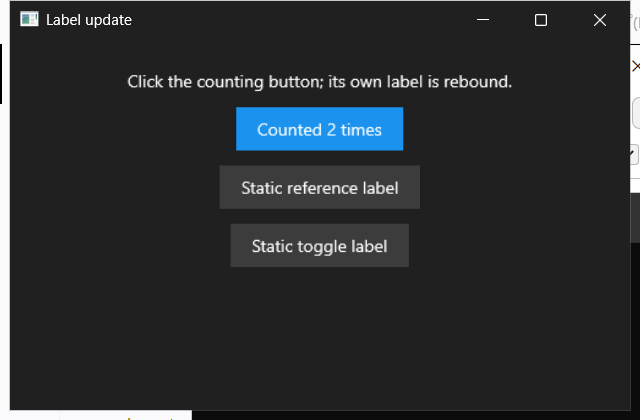
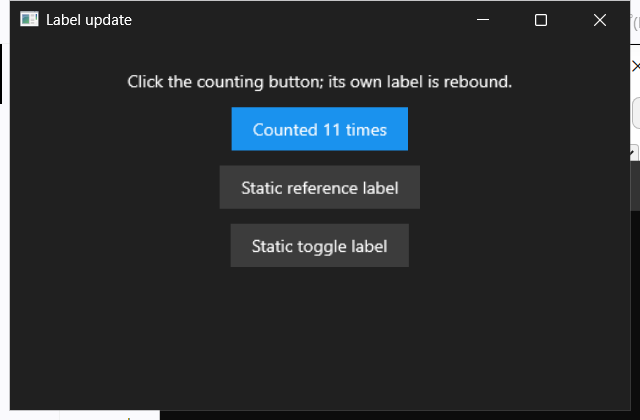
docs(m4-phase-1): disposition the second review round and close the width gap
Seven findings, all real. The first round's lesson repeated in a sharper
form: the corrections were right where they were applied and incomplete
in where they were applied.

The enumeration counted ABI wrappers, not mechanisms. root_widget, root
and visual are all public and the tree-mutation methods are pub fn on
WidgetNode, so the ABI is not the boundary; rows 6 and 6b are re-scoped
to the tree-mutation API and to direct Composition hosting, of which
window_add_widget is the convenience form.

F-21's old mechanism survived in three summarising passages after the
finding itself was corrected — which is the same failure class as F-18,
committed by the fix to F-18. All three corrected.

The width half of the R-4 gap is now closed rather than recorded: the
evidence UI counts from 9 so the click crosses 9 to 10 and the label
gains a digit, and mutation N4 turns the counting Button blank. The
height half cannot be closed by this set, because line height is a font
metric constant with no style setter, so it is recorded with its
re-trigger instead of with a mutation that cannot fire.

The new evidence also exposed a pre-existing defect, F-23: flush_layout
calls the plain run_layout while set_root and WM_SIZE call
run_layout_as_window_root, so a Fill child under a Shrink root collapses
on a property write but not on a resize. Present before this change too,
so the pairs stay zero; recommended for T5, which already edits that
call site.

diff --git a/wasamo-runtime/src/widget.rs b/wasamo-runtime/src/widget.rs
@@ -828,10 +828,16 @@ impl WidgetNode {
         // are written by `sync_visuals`, alongside every other Composition
         // geometry write in the runtime.
         //
-        // The consequence is that a Button-family widget renders its label only
-        // once a layout pass has run over it. Every path that puts a widget on
-        // screen as *content* does run one; `lib.rs::window_add_widget` does
-        // not, by design, and is documented accordingly.
+        // The consequence is that a Button-family widget shows its label only
+        // once a layout pass has run over it, and **not every path that puts a
+        // widget on screen runs one**. `window::set_root` and the `WM_SIZE` arm
+        // do; the tree-mutation API (`append_child` / `insert_child` /
+        // `replace_child`, whether called directly or through their ABI
+        // wrappers) does not, and neither does `lib.rs::window_add_widget`.
+        // Those paths rely on a later `WM_SIZE` or size-affecting property
+        // write, except `window_add_widget`, which has no later pass at all.
+        // A new mutation entry that omits `emit::mark_layout_dirty_for` will
+        // reproduce the missing label.
         use windows::core::Interface;
         let label_vis: Visual = label_visual.cast()?;
         let bg_container: ContainerVisual = bg_visual.cast()?;

diff --git a/wasamo-runtime/src/lib.rs b/wasamo-runtime/src/lib.rs
@@ -108,11 +108,12 @@ pub fn get_text_renderer() -> &'static TextRenderer {
 /// Since M4-Phase 1 that also means a **Button-family widget shows no label
 /// through this path**: the label Visual's offset and size are written by
 /// `sync_visuals`, so a widget that never reaches a layout pass keeps the
-/// Composition default of `Size = (0, 0)` and the label is not rasterized to
-/// screen. Before that change the label happened to carry constructor-time
-/// geometry while its background did not, so this path rendered a
-/// half-positioned widget. Use [`window_set_root`] for anything that should
-/// lay itself out.
+/// Composition default of `Size = (0, 0)`. The label surface and its brush
+/// *are* created at construction — the label is rasterized, just never
+/// composited, so re-creating the surface does not help. Before that change
+/// the label happened to carry constructor-time geometry while its background
+/// did not, so this path rendered a half-positioned widget. Use
+/// [`window_set_root`] for anything that should lay itself out.
 pub fn window_add_widget(window: &WindowState, widget: &WidgetNode) -> windows::core::Result<()> {
     use windows::core::Interface;
     use windows::UI::Composition::Visual;

diff --git a/process/milestone-4/phase-1/implementation/log.md b/process/milestone-4/phase-1/implementation/log.md
@@ -890,8 +890,8 @@ assertions, not omissions.
 | 3 | `emit::flush_layout` → `run_layout` (the drain's layout phase) | label untouched | **preserved and load-bearing**: this is the pass that now carries the relocated label-update write |
 | 4 | `set_property(PROP_BUTTON_LABEL)` on an **attached** widget | brush, geometry and `SizeConstraint` all written inline | **changed.** Geometry moves to the drain's layout phase, which `wasamo_set_property` runs synchronously at the tail of the same ABI call (`drain_if_outermost`) because `size_affecting` already lists this property. No frame is presented between the brush write and the geometry write — Composition commits at the dispatcher tick, not per property set. Verified by frame: `labelupdate-clicked` and `-clicked-twice` are pixel-identical before and after |
 | 5 | `set_property(PROP_BUTTON_LABEL)` on an **unattached** widget | geometry written eagerly | **changed.** `mark_layout_dirty_for` is a no-op when the widget belongs to no window, so no layout pass runs and the label Visual keeps its previous geometry until the subtree is attached — at which point `set_root`'s first pass writes it. Self-healing, and the widget is by definition not on screen in the interval |
-| 6 | **The ABI structural mutations** — `wasamo_widget_insert_child`, `wasamo_widget_append_child`, `wasamo_widget_replace_child` (**all three**; the row originally named only `insert_child` — Codex review finding R-2) | inserted/appended/replacing button's label was placed; the button itself was not | **pre-existing class, not introduced here.** None of the three marks layout dirty and none drains, so the new node's *own* Visual already had no offset or size until the next layout pass. T3 makes the label match the button instead of floating at (16, 8) over a zero-sized background. The class is closed only by the next `WM_SIZE` or size-affecting property write |
-| 6b | **`lib.rs::window_add_widget`** — the Rust-native direct-hosting entry (**Codex review finding R-1; this row was missing entirely**) | the label carried constructor geometry `(16, 8)` / `(lw, lh)` while the background carried none, so a caller who sized the background by hand got a rendered label | **changed, and this is a real behaviour regression on a public API.** The function attaches a Visual to `window.root.Children()` and deliberately runs **no layout and no sync** (its own doc says so), so a Button-family widget added through it now keeps `Size = (0, 0)` on its label **permanently** — not until the next pass, because there is no pass. The pre-change behaviour was itself half-formed (label placed, background not), but "half-formed" and "no label" are not the same thing. Not fixed by reintroducing a construction-time write, which would destroy the one-pass invariant this task exists to create. Disposition below |
+| 6 | **The tree-mutation API** — `WidgetNode::append_child` / `insert_child` / `replace_child`, all `pub`, plus their ABI wrappers `wasamo_widget_append_child` / `_insert_child` / `_replace_child` (**re-scoped twice: the row first named only `insert_child`, then only the ABI wrappers — review findings R-2 and, on re-review, R-1's first half**) | the new button's label was placed; the button itself was not | **pre-existing class, not introduced here.** None of these marks layout dirty and none drains, so the new node's *own* Visual already had no offset or size until the next layout pass. T3 makes the label match the button instead of floating at (16, 8) over a zero-sized background. The class is closed only by the next `WM_SIZE` or size-affecting property write. **The boundary is the `WidgetNode` method, not the ABI wrapper** — `WindowState::root_widget` is `pub`, so `window.root_widget.as_mut().unwrap().append_child(button)` reaches the same code with no ABI hop |
+| 6b | **Direct Composition hosting** — `lib.rs::window_add_widget`, and equivalently any caller doing `window.root.Children()?.InsertAtTop(&widget.visual.cast()?)` by hand, since `WindowState::root` and `WidgetNode::visual` are both `pub` (**review finding R-1; this row was missing entirely, and its scope was widened on re-review**) | the label carried constructor geometry `(16, 8)` / `(lw, lh)` while the background carried none, so a caller who sized the background by hand got a rendered label | **changed, and this is a real behaviour regression on a public API.** The widget never enters `root_widget`, so it is not merely unlaid-out — **no later pass exists**, and the label keeps `Size = (0, 0)` permanently. The pre-change behaviour was itself half-formed (label placed, background not), but "half-formed" and "no label" are not the same thing. Not fixed by reintroducing a construction-time write, which would destroy the one-pass invariant this task exists to create. Disposition below |
 | 7 | `ir_loader` conditional / `for`-range mutations | as above | **preserved.** Both sites call `mark_layout_dirty_for` after the mutation, so the drain's layout phase places the new subtree. Exercised by the `gallery-lightbox` frame, whose three buttons are constructed *after* the tree was attached |
 | 8 | Visual parenting / Z-order (`bg_container.Children().InsertAtTop`) | at construction | **unchanged** — only the two geometry writes moved |
 | 9 | The node's `SizeConstraint::Fixed` pair | derived from `(lw, lh)` in both writers | **unchanged**, and still per axis (F-10): `Fixed(lw + BUTTON_PAD_H * 2.0)` and `Fixed(lh + BUTTON_PAD_V * 2.0)` in each |
@@ -979,23 +979,40 @@ at the frame edge cannot contribute):
 | `labelupdate-clicked` | the relocated label-update write, once | **0** of 224,480 |
 | `labelupdate-clicked-twice` | the same write a second time | **0** of 224,480 |
 
-**Correction (Codex review finding R-4):** these three frames were
-described as covering "three different label widths". They do not.
-`Counted 0 times` / `1 times` / `2 times` differ in glyph but **not in
-measured width** — the digits are the same advance — so the Button is the
-same width in all three. The consequence is concrete: an implementation
-that wrote `btn.label_size = (btn.label_size.0, lh)` — keeping the stale
-width — would keep two writers, keep the statement-group shape, and pass
-every frame in this set, and would only smear when a label crosses from
-one digit to two. **There is no positive control for that mutation.** The
-landed source is `(lw, lh)` and is correct; what is missing is evidence,
-and it is recorded as missing rather than papered over.
+**Correction, and then closure (review finding R-4).** The set originally
+started its counter at 0, and these three frames were described as
+covering "three different label widths". They did not:
+`Counted 0 / 1 / 2 times` differ in glyph but **not in measured width** —
+the digits share an advance — so the Button was the same width in all
+three, and an implementation writing
+`btn.label_size = (btn.label_size.0, lh)` would have kept two writers,
+kept the statement-group shape, and passed every frame.
+
+**The evidence UI now starts at 9**, so the click crosses 9 → 10, the
+label gains a digit, and the Button's measured width moves. Mutation
+**N4** confirms the set reacts: with the stale-width write in place the
+counting Button renders **completely blank** (`n4-stale-width-labelupdate.png`),
+and both `labelupdate-initial` and `-clicked` go red — the initial frame
+too, because the bound label is written through `update_button_label`
+once at registration, when the constructed label was still empty. The
+hole R-4 identified is closed rather than only recorded.
+
+**The height component is not closed, and cannot be by this set.**
+`measure` returns `DWRITE_TEXT_METRICS::height` for an unconstrained
+single-line layout, so `lh` is a font-metric constant for a given
+`TypographyStyle` — and `label_style` has no setter. A mutation writing
+`(lw, btn.label_size.1)` therefore produces an identical frame here.
+It is **not** unreachable in principle: a label whose script changes can
+draw a fallback font with different line metrics, and multi-line labels
+or a future style setter would make it ordinary. Recorded as a stated
+gap with that re-trigger rather than closed with a mutation that cannot
+be made to fire.
 
 **What the pair does and does not discriminate**, stated rather than
 implied. It **does** show that the relocated write lands, for both widget
 kinds, on all three paths that reach a Button (first layout, drain
-re-layout, post-attach construction), and at three different label widths
-on the update path — N1 and N2 are the proof that a frame in this set goes
+re-layout, post-attach construction), and across a label-width change on
+the update path — N1 and N2 are the proof that a frame in this set goes
 red when it should. It **does not** show that the *old* writes are gone:
 an implementation that added the sync arm and left the construction
 writes in place would produce exactly these frames. That half is closed
@@ -1100,7 +1117,7 @@ correct:
 | §T6 | **corrections — F-20** (the walk can read `label_size` and must not become a second measurer) and **F-21** (workspace build before the rendering gate) |
 | §T7 | **correction — F-18**: the clip-inset row inherits the Box-vs-ZStack error that F-2 corrected only on the DD-002 side |
 | §T8 | no additional correction. T3 adds no test and no assertion surface; `label_visual` stays private, so T8's Visual-ratio assertions remain node-level as written |
-| §T9 | **correction — F-21**: the three-host rebuild is the artifact for DD-001's boundary claim, and a host-package build would run it against a pre-T9 DLL |
+| §T9 | **correction — F-21**: the three-host rebuild is the artifact for DD-001's boundary claim, and a host-package build would run it against a DLL relinked around pre-T9 object code |
 | §T10 | **correction — F-21**, and a confirmation: T3's capture script and its click-point derivation are reusable, and the aware/unaware `MoveWindow` / `GetWindowRect` asymmetry T3 worked through is the same thing R-7 already assigns to T10 |
 | §T11 | no additional correction — owner-executed, unaffected |
 | §T12 | **correction — F-21's [AGENTS.md](../../../../AGENTS.md) half**, folded into the existing F-5 correction item rather than added as a second bullet |
@@ -1159,9 +1176,13 @@ Six findings, five of them in tasks T3 never touched.
   extent and does not re-measure; if a future change makes `measure`
   scale-dependent, that is the already-recorded re-trigger and both this
   and T7's step ordering are re-derived together.
-- **F-21 — a host-package build does not rebuild the runtime.** Recorded
-  in full above. *Disposition:* [plan.md](./plan.md) §T6, §T9, §T10, §T12;
-  preamble R-1b; [handoff.md](./handoff.md).
+- **F-21 — a host-package build relinks the DLL around stale object
+  code.** Recorded in full above, with the mechanism corrected at the
+  independent review: cargo *does* recompile the runtime and *does*
+  relink `wasamo.dll`; the stale input is the **uplifted** rlib that
+  `wasamo-dll/build.rs` whole-archives, which makes this F-5's root cause
+  with the opposite symptom. *Disposition:* [plan.md](./plan.md) §T6,
+  §T9, §T10, §T12; preamble R-1b; [handoff.md](./handoff.md).
 - **F-22 — the phase-wide "trap #3 non-applicable" is falsified.**
   [preamble.md](./preamble.md) §Implementation gates records trap #3 as
   non-applicable for the phase, "no parallel vectors or derived indices
@@ -1255,7 +1276,7 @@ the reviewer's word.
 
 | # | Finding | Verified | Disposition |
 |---|---|---|---|
-| R-1 | **major** — `lib.rs::window_add_widget` runs no layout and no sync, so removing the constructor geometry leaves a Button-family label permanently at `Size = (0, 0)` on that path | **Confirmed.** The function attaches a Visual to `window.root.Children()` and returns; its own doc names "no layout, no hit-test" as the point. The enumeration missed it because the enumeration walked *layout* paths, and this is the one attach path that deliberately is not one | Enumeration row **6b** added; the misleading `button_family` comment corrected (it claimed construction happens in the IR loader, which is not the only constructor); `window_add_widget`'s doc states the consequence. **Not** fixed by reintroducing a construction-time write — that would destroy the one-pass invariant the task exists to create. The API's future is an owner decision, below |
+| R-1 | **major** — `lib.rs::window_add_widget` runs no layout and no sync, so removing the constructor geometry leaves a Button-family label permanently at `Size = (0, 0)` on that path | **Confirmed.** The function attaches a Visual to `window.root.Children()` and returns; its own doc names "no layout, no hit-test" as the point. The enumeration missed it because the enumeration walked *layout* paths, and this is the one attach path that deliberately is not one | Enumeration row **6b** added; the misleading `button_family` comment corrected (it claimed construction happens in the IR loader, which is not the only constructor); `window_add_widget`'s doc states the consequence. **Not** fixed by reintroducing a construction-time write — that would destroy the one-pass invariant the task exists to create. **Widened on re-review** (see the second-round table below) and the API's disposition taken as T3's own |
 | R-2 | **minor** — enumeration row 6 named only `wasamo_widget_insert_child`; `append_child` and `replace_child` are the same class | **Confirmed** at `abi.rs:388` and `abi.rs:491`: neither marks layout dirty, neither drains | Row 6 rewritten to name all three |
 | R-3 | **minor** — the "preserved" verdicts hold only when layout succeeds; `run_layout*` propagates the error with `?` before `sync_visuals`, and both callers discard the `Result` | **Confirmed** by reading `run_layout` / `run_layout_as_window_root` and the two `let _ = …` call sites | Enumeration row **14** added, stating the condition the other rows assumed |
 | R-4 | **minor** — the three label-update frames were described as "three different label widths"; the widths are identical | **Confirmed.** `Counted 0/1/2 times` differ in glyph, not in advance width. A mutation keeping the stale width would pass the whole set | The claim is corrected in place, and the **missing** positive control is recorded as missing rather than papered over |
@@ -1306,4 +1327,47 @@ itself. What an independent review of this shape still could not supply
 is a mutation nobody thought of — R-4 is the case in point: the reviewer
 found the missing control by reading the evidence *description*, not by
 running a mutation the assistant had not designed.
+
+### Second review round (Codex, 2026-07-28) — delta review of the disposition
+
+Seven findings: one major, four minor, two nits. **Every one is real**,
+re-verified against the source before acceptance. The first round's
+lesson repeated in a sharper form: the corrections were right where they
+were applied and **incomplete in where they were applied**.
+
+| # | Finding | Verified | Disposition |
+|---|---|---|---|
+| S-1 | **major** — rows 6 / 6b counted the *ABI wrappers* and `window_add_widget`, missing direct Rust-native mutation and direct Composition hosting | **Confirmed.** `WindowState::root_widget`, `WindowState::root` and `WidgetNode::visual` are all `pub`, and `append_child` / `insert_child` / `replace_child` are `pub fn` on `WidgetNode` — so the ABI is not the boundary | Rows 6 and 6b re-scoped **by mechanism instead of by wrapper**: row 6 is the tree-mutation API with the ABI functions as one caller; row 6b is direct Composition hosting, of which `window_add_widget` is the convenience form. This is the fourth path class the re-framed enumeration was asked for |
+| S-2 | **minor** — the `button_family` comment ("every path that puts a widget on screen as content runs a layout pass") contradicts row 6 | **Confirmed** — the comment was written before rows 6 / 6b / 14 existed | Comment rewritten to name which paths do and do not, and to name the omission (`mark_layout_dirty_for`) that reproduces the defect |
+| S-3 | **minor** — F-21's old mechanism survives in the retrospective's learnings and share-forward sections and in this log's re-audit bullet | **Confirmed** at three sites | All three corrected. **This is F-18's own failure class, committed by the correction to F-18**: the fix was applied to the documents that *carried the finding* and not to the documents that *summarised* it |
+| S-4 | **minor** — "three different label widths" survives in the pair-analysis paragraph, directly after the paragraph withdrawing it | **Confirmed** | Corrected |
+| S-5 | **minor** — the R-4 gap statement covers width and understates the height component | **Confirmed** — `(lw, stale_height)` also passes the set | Gap restated for both components. The **width** half is now **closed** by evidence (below); the **height** half is recorded with the reason it cannot be closed by this set and its re-trigger |
+| S-6 | **nit** — "not rasterized to screen" misdescribes the mechanism; the label *is* rasterized and brushed, and is not composited because the Visual is zero-sized | **Confirmed** — `draw_text` and `CreateSurfaceBrushWithSurface` both run at construction | Doc corrected. The misdescription would have sent a reader to re-create the surface, which changes nothing |
+| S-7 | **nit** — the R-1 row still called the API's future an owner decision after the text below settled it | **Confirmed** | Row corrected |
+
+**The width gap is closed, not just recorded (S-5).** The evidence `.ui`
+now starts its counter at **9**, so the click crosses 9 → 10 and the
+label gains a digit; mutation **N4** (`label_size = (label_size.0, lh)`)
+turns the counting Button completely blank and reddens two frames. Both
+sets were re-captured on their respective builds and all six pairs are
+again zero.
+
+**A pre-existing defect the new evidence exposed, recorded as F-23.**
+In every frame after a click, the Grid-stretched Button **disappears** —
+in the pre-change build too, so it is not T3's and the pairs stay zero.
+The cause is a real inconsistency between the phase's two re-layout
+paths: `window::set_root` and the `WM_SIZE` arm call
+`run_layout_as_window_root`, which forces the root `LayoutNode` to
+`Fill` / `Fill`, while [`emit::flush_layout`](../../../../wasamo-runtime/src/emit.rs)
+— the reactive drain's layout phase — calls the plain `run_layout`,
+which does not. A root `VStack` (`Shrink`) holding a `Grid`
+(`Fill` / `Fill`) therefore lays out correctly on resize and **collapses
+the Grid to zero height on any property write**. That is exactly the
+M3-Phase 4 T6 failure `run_layout_as_window_root`'s doc comment describes,
+still live on the drain path. *Not fixed here* — T3 must stay
+behaviour-identical, and this is a behaviour change with its own
+evidence needs. *Disposition:* recorded in [handoff.md](./handoff.md) and
+raised with the owner, with the recommendation that it land in **T5**,
+which already edits that call site for the inbound DIP conversion (audit
+row 2b), as its own commit with its own before/after frames.
 

diff --git a/process/milestone-4/phase-1/implementation/handoff.md b/process/milestone-4/phase-1/implementation/handoff.md
@@ -41,6 +41,7 @@ criterion rather than a date.
 | **The per-node scale cache has exactly one writer** — the attach / scale-change walk; `WindowState` holds the authoritative value (T1 decision, [log.md](./log.md) §T1) | In force from T5 onward | Any path that attaches, re-parents, or re-materialises a subtree **without** running the walk leaves stale scales behind: staged iteration subtrees, M4-Phase 2 event-model tree edits, M4-Phase 8 moving a tree between windows. Such a path must call the walk |
 | **`cargo test --workspace` needs `cargo build -p wasamo-runtime` first from a cold target directory** — `wasamo-dll/build.rs` whole-archives the *uplifted* `<profile>/libwasamo_runtime.rlib`, which cargo produces only once `wasamo-runtime` has been built as a primary package (T1 finding F-5; pre-existing, not introduced by this phase) | T12's clean-rebuild gate; [AGENTS.md §Build ordering](../../../../AGENTS.md) | Any clean rebuild, any CI cache miss, or any toolchain update that invalidates the uplifted rlib. Cold-directory failure is `LNK1356`; a stale uplifted rlib fails later as `LNK2019` on `core` / `std` symbols. `cargo check` never links and stays green through both |
 | **The same whole-archive path also fails *quietly*: a host-package build relinks `wasamo.dll` around the stale uplifted rlib** — cargo recompiles `wasamo-runtime` as a dependency and relinks the DLL, but refreshes `<profile>/libwasamo_runtime.rlib` only on a primary-package build, so the fresh DLL carries the previous runtime (T3 finding F-21, the row above's root cause with the opposite symptom; pre-existing, not introduced by this phase) | Every GUI evidence gate — T6, T9, T10 — and [AGENTS.md §Build ordering](../../../../AGENTS.md) at T12 | Any capture, smoke, or host run intended as evidence for a runtime change. Fails **silently and green, with a fresh DLL timestamp**, so a freshness check does not detect it. Precede every capture with `cargo build --release --workspace` |
+| **`emit::flush_layout` uses the wrong layout entry** — `window::set_root` and the `WM_SIZE` arm call `run_layout_as_window_root` (root forced to `Fill` / `Fill`); the reactive drain's layout phase calls the plain `run_layout`, so a root `VStack` holding a `Fill` child lays out correctly on resize and **collapses that child on any property write**. The M3-Phase 4 T6 failure, still live on the drain path. Found incidentally by T3's evidence UI; pre-existing, not introduced by this phase | Recommended: **T5**, which already edits that call site for audit row 2b — as its own commit with its own before/after frames | Any re-layout triggered by a property write rather than a resize, on a tree whose root container is `Shrink` with a `Fill` descendant |
 | **Button-family widgets render no label without a layout pass**, and `lib.rs::window_add_widget` deliberately runs none — so that path shows a Button's background and not its label (T3, Codex review finding R-1) | Documented at T3 as a stated limit; **`window_add_widget` itself is a cleanup candidate** — a caller-less public entry left behind when `window_set_root` superseded it at `163067a` | Any new attach path that puts a widget on screen **as content** without a layout pass. The label geometry now lives only in `sync_visuals`, so "attached" and "laid out" stopped being separable for Button-family widgets |
 | **Every Composition geometry write in the runtime happens in exactly one pass** (`sync_visuals`) — the property that makes DD-002's conversion-site audit complete rather than approximately complete (T3) | In force from T3 onward | Any task adding a `SetOffset` / `SetSize` / `SetScale` outside `sync_visuals` — a constructor, a property setter, or T6's re-rasterization walk — breaks it silently and reintroduces exactly the class DD-002 §Row 6 detail closed |
 | **`ButtonData.label_size` has exactly two writers**, both of which also write `label_text` and the node's `SizeConstraint::Fixed` pair (T3) | In force from T3 onward | A third path that changes a Button-family label — a typed property writer, an iteration-materialised label rebind, M4-Phase 2's event model — must write all three, or the label renders at the previous text's extent |
